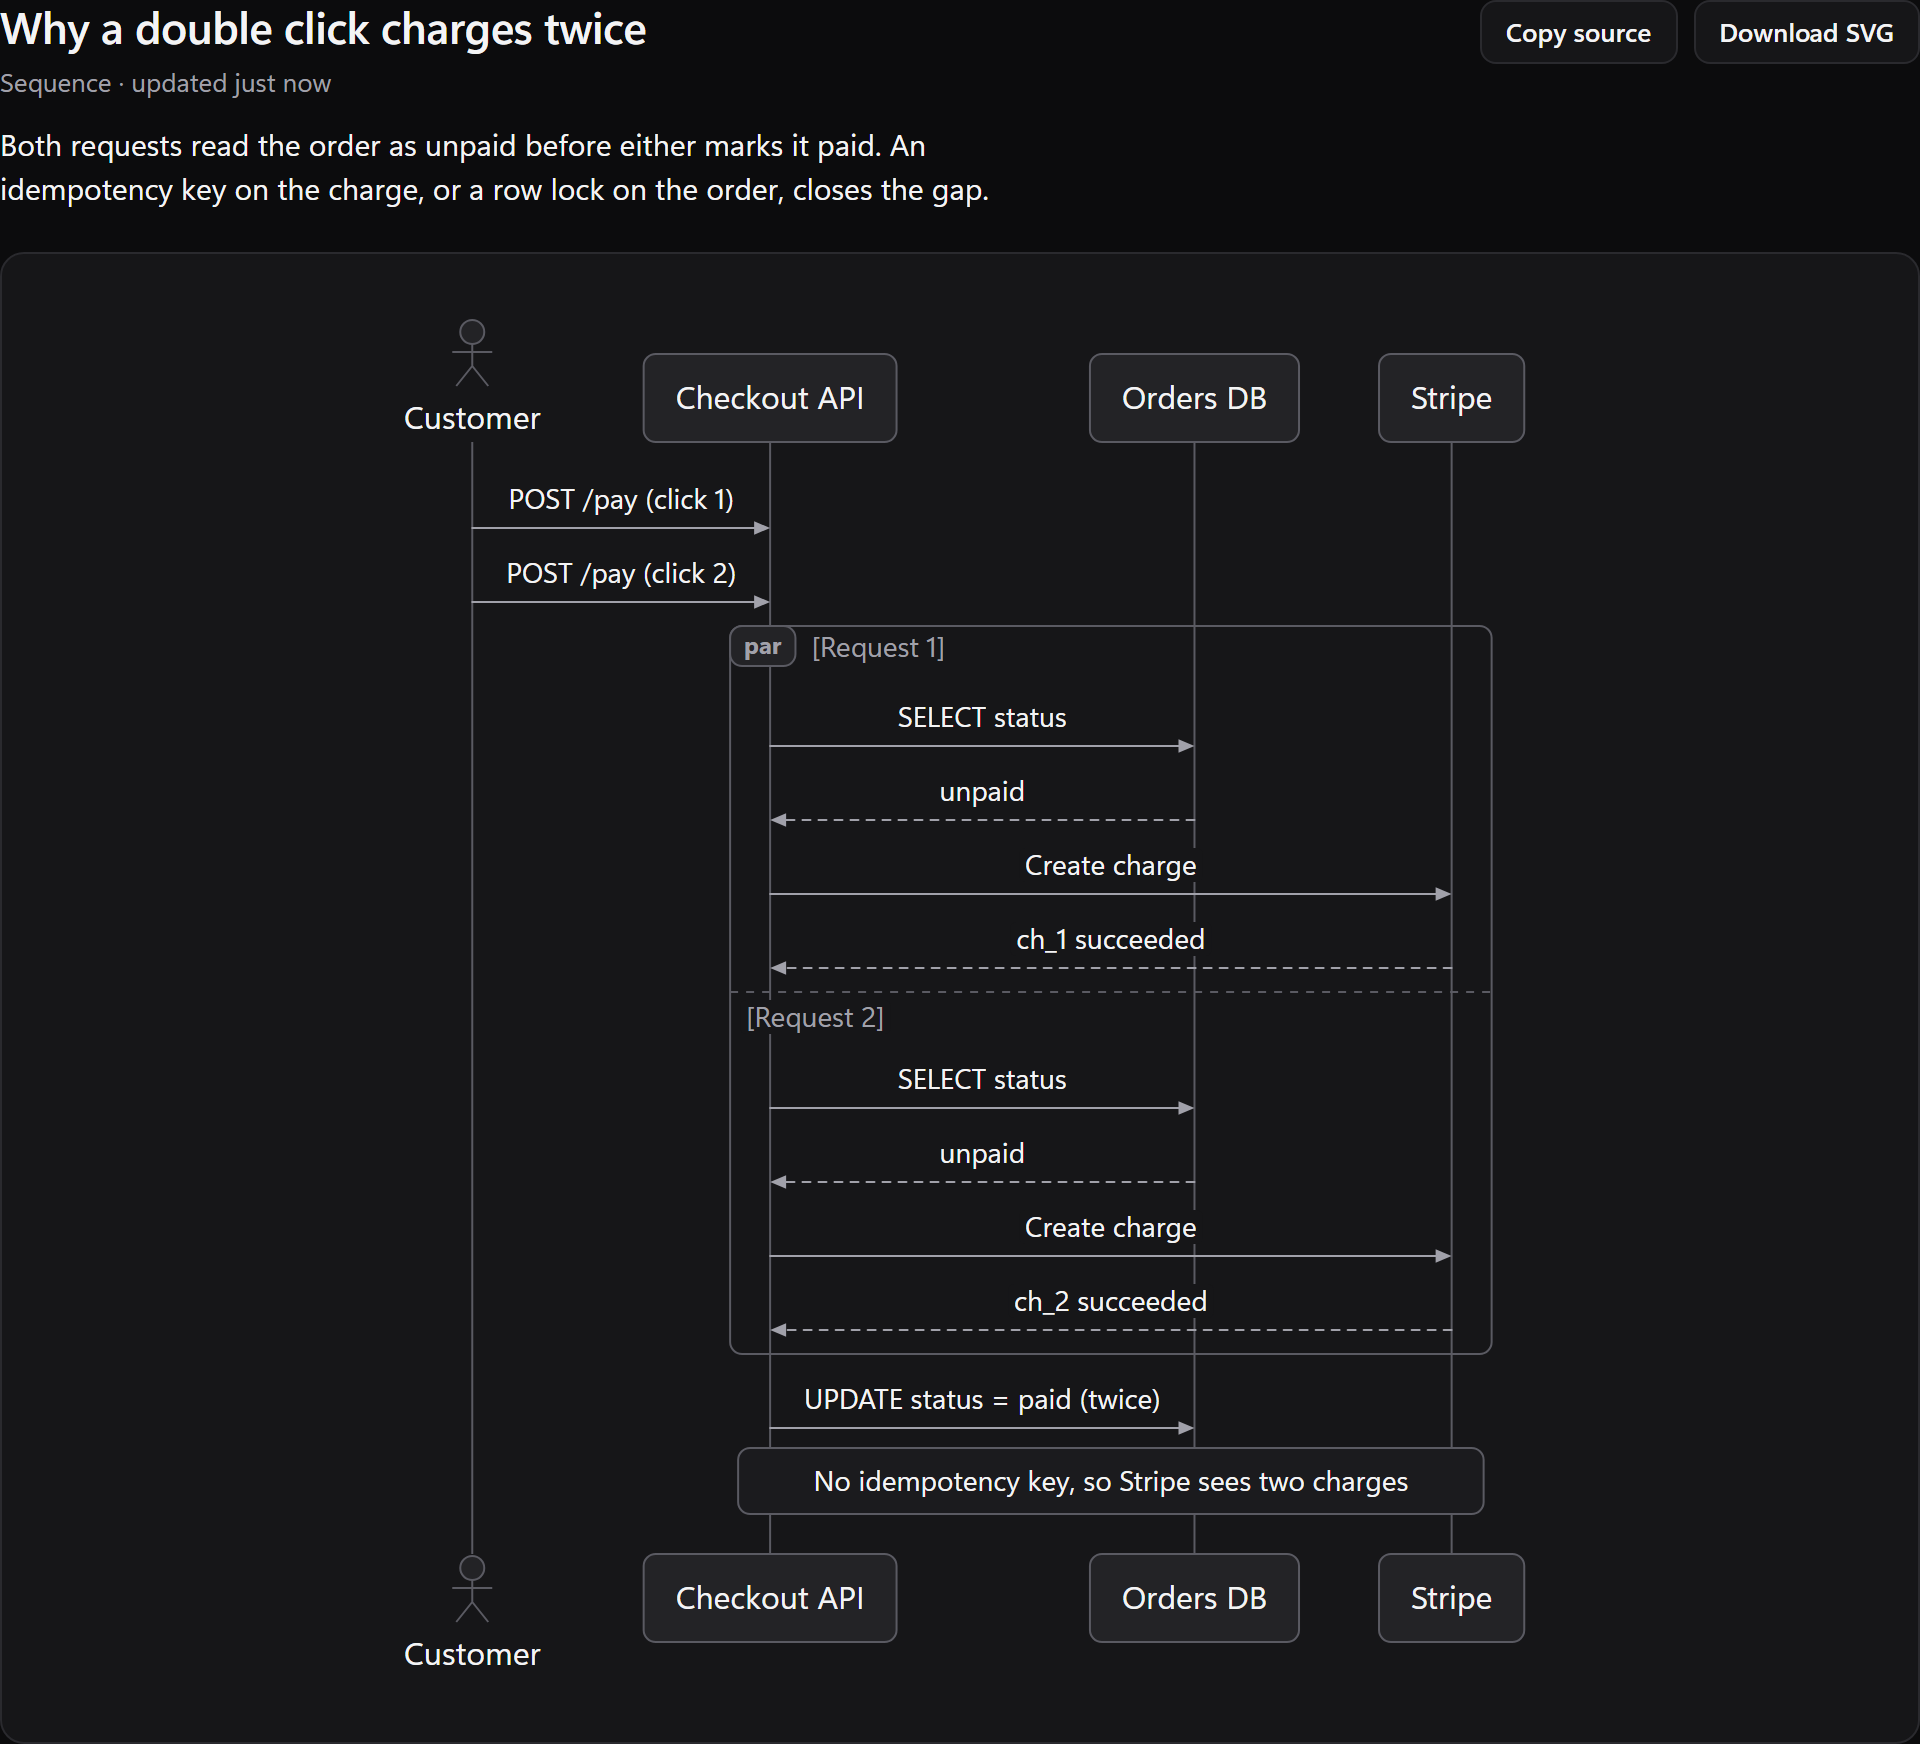
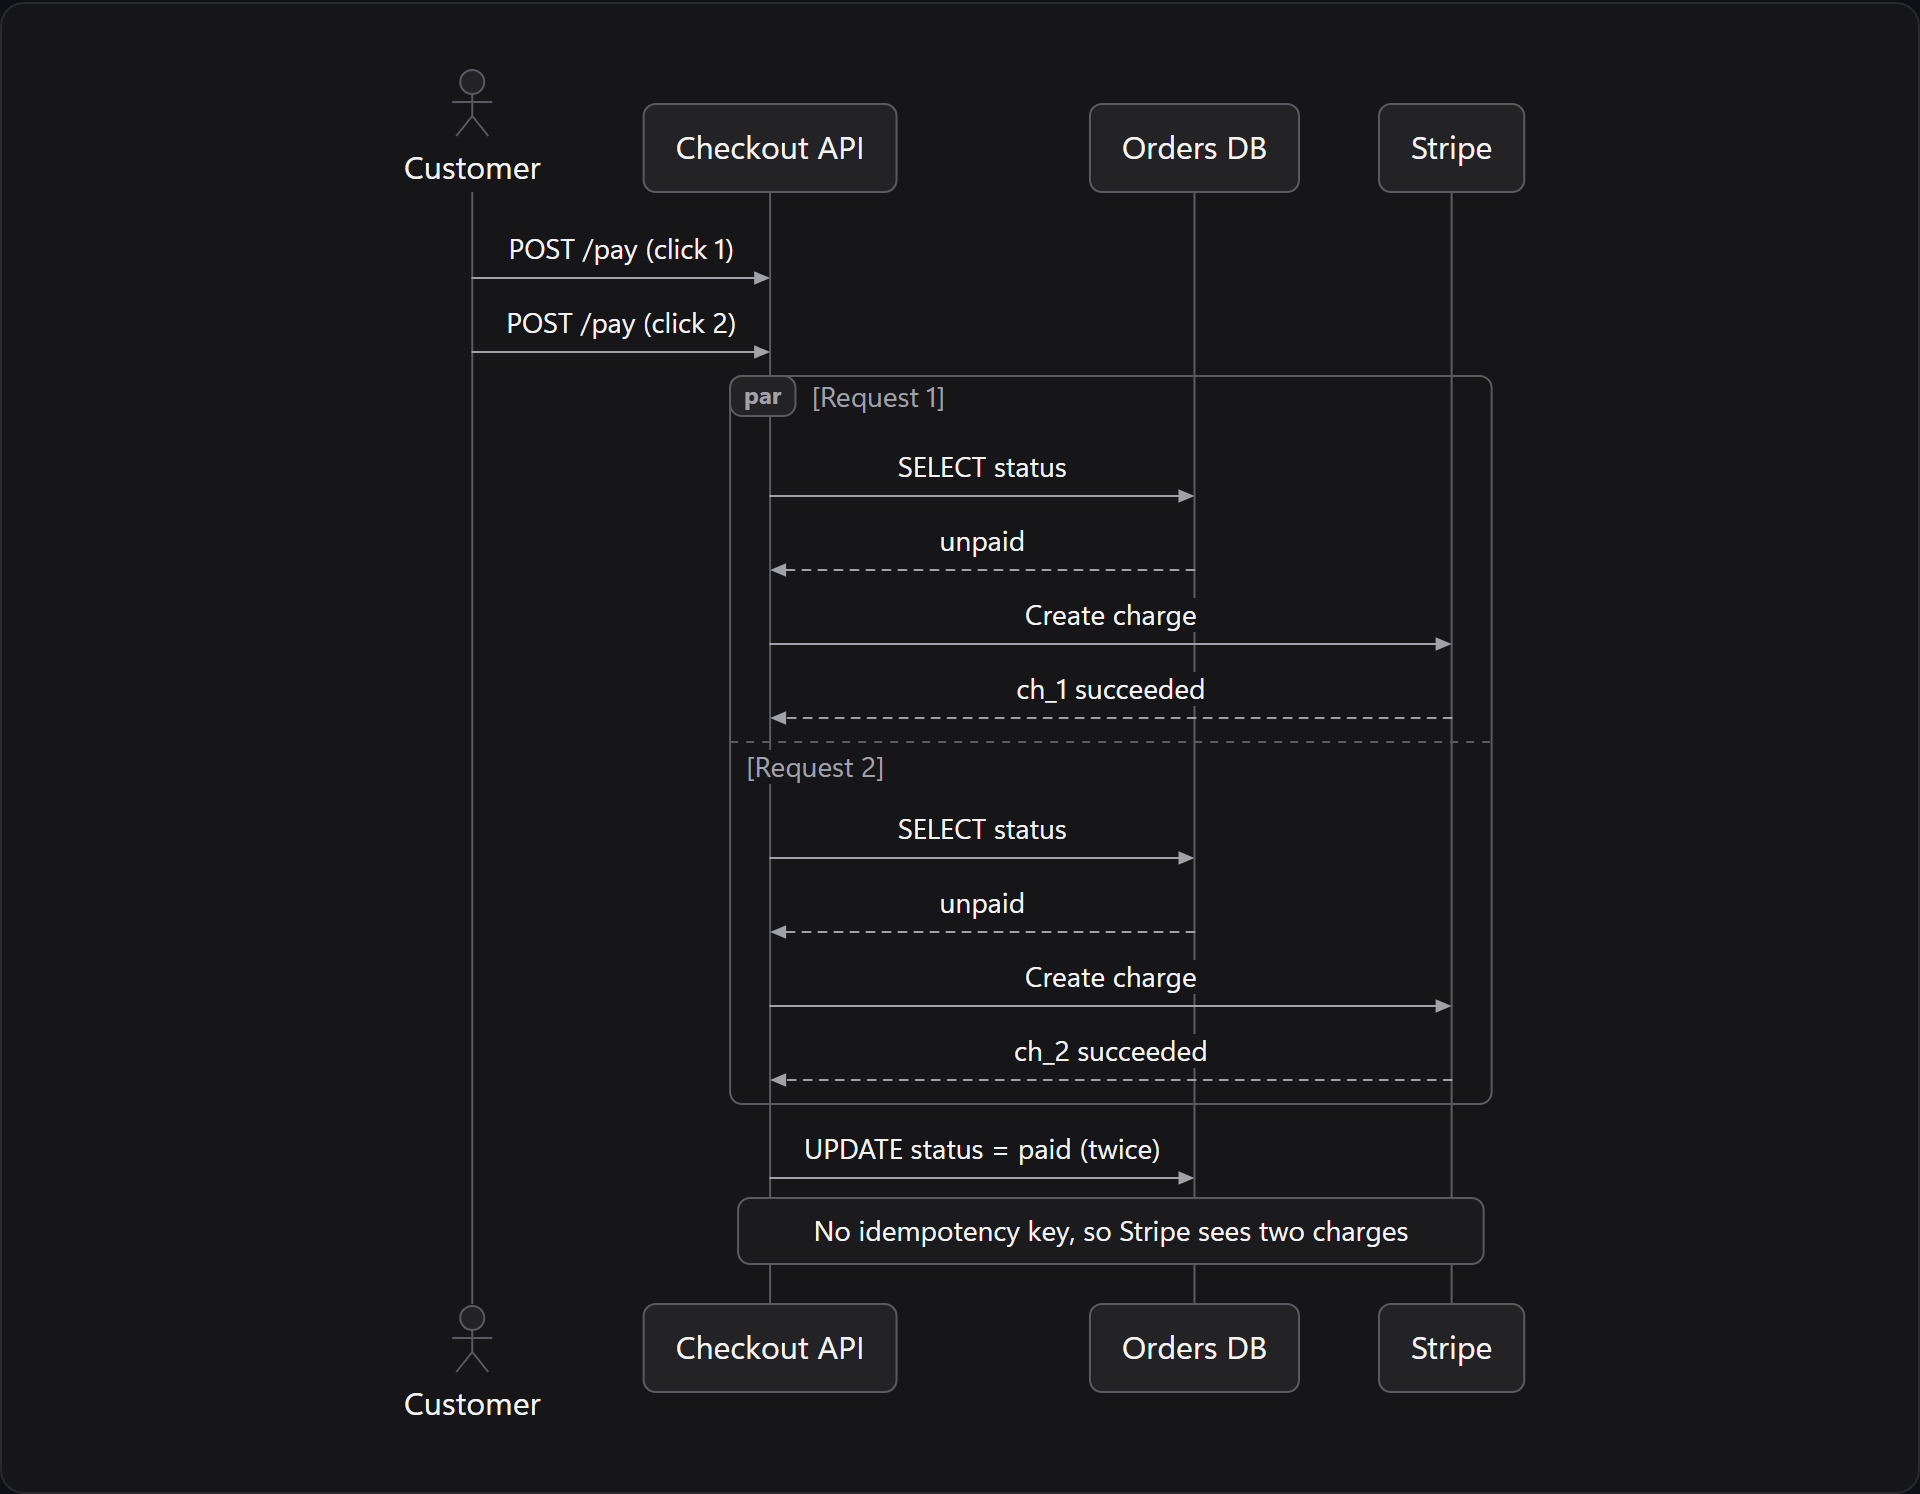
Show example diagrams as cards with the agent's conclusion
Each example image is now the diagram card alone, on GitHub's page
color and without zoom buttons, followed by the title and caption the
agent wrote. The full board is already shown at the top of the README.

diff --git a/README.md b/README.md
@@ -119,7 +119,9 @@ repository. The others show what the board displays for common requests.
   <img alt="What happens on show_diagram: The server renders every diagram with pele before the page sees it, so the agent gets syntax errors and the user never sees a broken diagram. Diagrams live only in memory, served on 127.0.0.1." src="docs/examples/codebase-tour-light.png" width="680">
 </picture>
 
-A real Claude Code run on this repository: it read the source and drew this, plus a second diagram of the build, in one turn.
+**What happens on show_diagram.** The server renders every diagram with pele before the page sees it, so the agent gets syntax errors and the user never sees a broken diagram. Diagrams live only in memory, served on 127.0.0.1.
+
+<sub>A real Claude Code run on this repository: it read the source and drew this, plus a second diagram of the build, in one turn.</sub>
 
 <details>
 <summary>Mermaid source</summary>
@@ -163,7 +165,7 @@ sequenceDiagram
   <img alt="Why a double click charges twice: Both requests read the order as unpaid before either marks it paid. An idempotency key on the charge, or a row lock on the order, closes the gap." src="docs/examples/race-condition-light.png" width="680">
 </picture>
 
-Sequence diagrams make timing bugs visible: here two requests pass the same check before either one writes.
+**Why a double click charges twice.** Both requests read the order as unpaid before either marks it paid. An idempotency key on the charge, or a row lock on the order, closes the gap.
 
 <details>
 <summary>Mermaid source</summary>
@@ -202,7 +204,7 @@ sequenceDiagram
   <img alt="Orders schema: An order belongs to one customer and has one or more line items. Refunds attach to payments, not to orders." src="docs/examples/data-model-light.png" width="680">
 </picture>
 
-Entity-relationship diagrams with keys, types and cardinality, drawn from migrations or ORM models.
+**Orders schema.** An order belongs to one customer and has one or more line items. Refunds attach to payments, not to orders.
 
 <details>
 <summary>Mermaid source</summary>
@@ -260,7 +262,7 @@ erDiagram
   <img alt="Incident response: The on-call engineer owns the incident from page to postmortem. Support only talks to customers once impact is confirmed." src="docs/examples/incident-process-light.png">
 </picture>
 
-Swimlanes show ownership: each step sits in the lane of whoever is responsible for it.
+**Incident response.** The on-call engineer owns the incident from page to postmortem. Support only talks to customers once impact is confirmed.
 
 <details>
 <summary>Mermaid source</summary>
@@ -298,7 +300,7 @@ swimlane-beta LR
   <img alt="Subscription lifecycle: Failed payments retry for 14 days inside Past due before the subscription is cancelled. A successful retry returns it to Active." src="docs/examples/lifecycle-light.png" width="680">
 </picture>
 
-State diagrams with nested states, drawn from the code that actually changes the status.
+**Subscription lifecycle.** Failed payments retry for 14 days inside Past due before the subscription is cancelled. A successful retry returns it to Active.
 
 <details>
 <summary>Mermaid source</summary>
@@ -332,7 +334,7 @@ stateDiagram-v2
   <img alt="Release 2.0 schedule: The API migration is the critical path: the SDK and the docs both wait for it, so a slip there moves the launch." src="docs/examples/release-plan-light.png">
 </picture>
 
-Gantt charts with dependencies, work in progress and the launch milestone.
+**Release 2.0 schedule.** The API migration is the critical path: the SDK and the docs both wait for it, so a slip there moves the launch.
 
 <details>
 <summary>Mermaid source</summary>
@@ -364,7 +366,7 @@ gantt
   <img alt="Job queue options: pg-boss fits best for the least effort because we already run Postgres. Temporal fits better only if workflows become long-running." src="docs/examples/compare-options-light.png">
 </picture>
 
-A quadrant chart places each option on the two axes that matter for the decision.
+**Job queue options.** pg-boss fits best for the least effort because we already run Postgres. Temporal fits better only if workflows become long-running.
 
 <details>
 <summary>Mermaid source</summary>
@@ -396,7 +398,7 @@ quadrantChart
   <img alt="Why the end-to-end suite is flaky: Two causes explain most failures: tests that share one seeded database, and fixed sleeps that lose to slow CI runners." src="docs/examples/root-cause-light.png">
 </picture>
 
-An Ishikawa (fishbone) diagram groups what the agent found by category.
+**Why the end-to-end suite is flaky.** Two causes explain most failures: tests that share one seeded database, and fixed sleeps that lose to slow CI runners.
 
 <details>
 <summary>Mermaid source</summary>
@@ -427,7 +429,7 @@ ishikawa-beta
   <img alt="Plan: migrate class components to hooks: One researcher lists the components, three workers each migrate a share in parallel, and a reviewer runs the tests before opening a PR." src="docs/examples/agent-plan-light.png">
 </picture>
 
-Agentflow diagrams show agents, their tools and the hand-offs between them, so you can check a plan before it runs.
+**Plan: migrate class components to hooks.** One researcher lists the components, three workers each migrate a share in parallel, and a reviewer runs the tests before opening a PR.
 
 <details>
 <summary>Mermaid source</summary>
